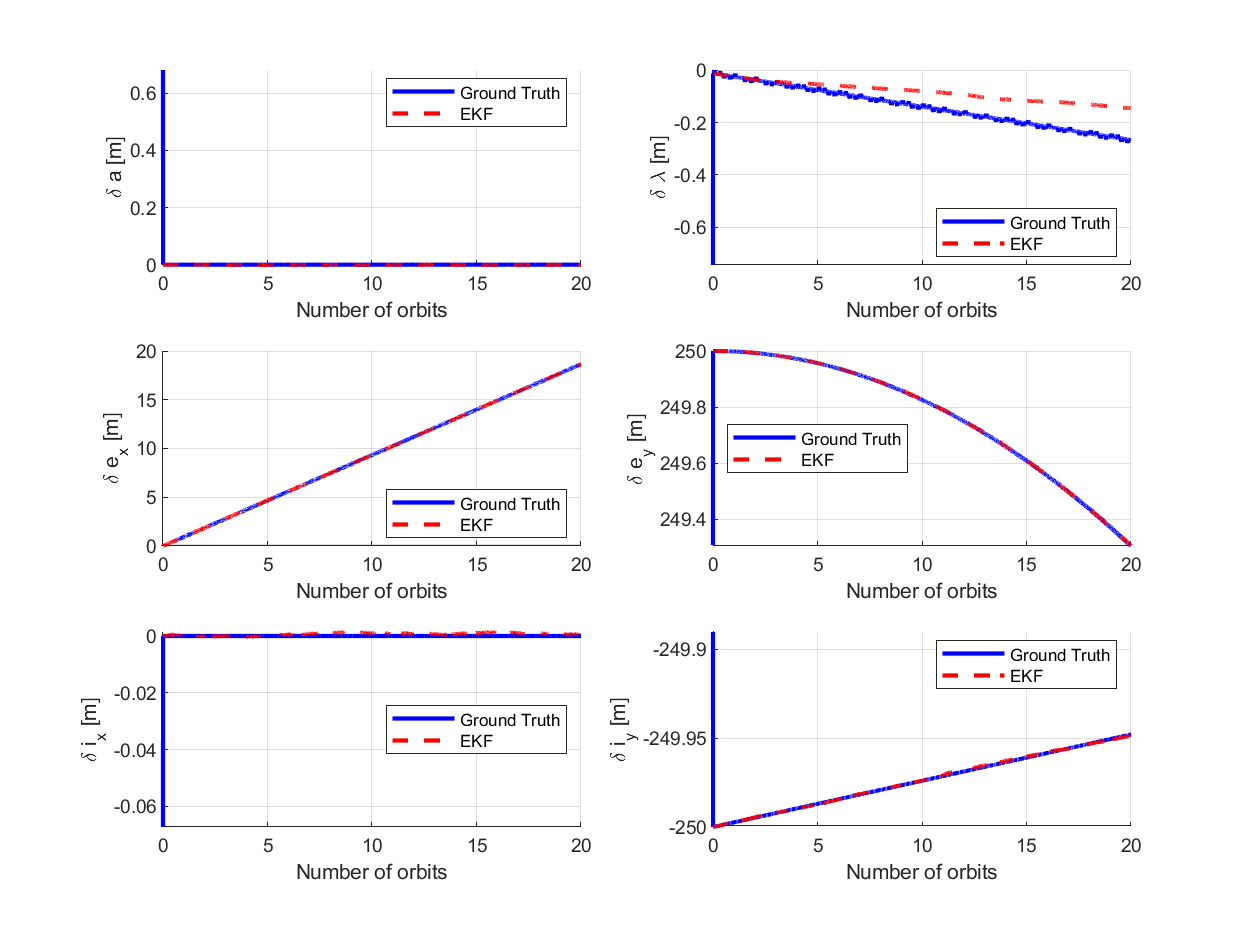
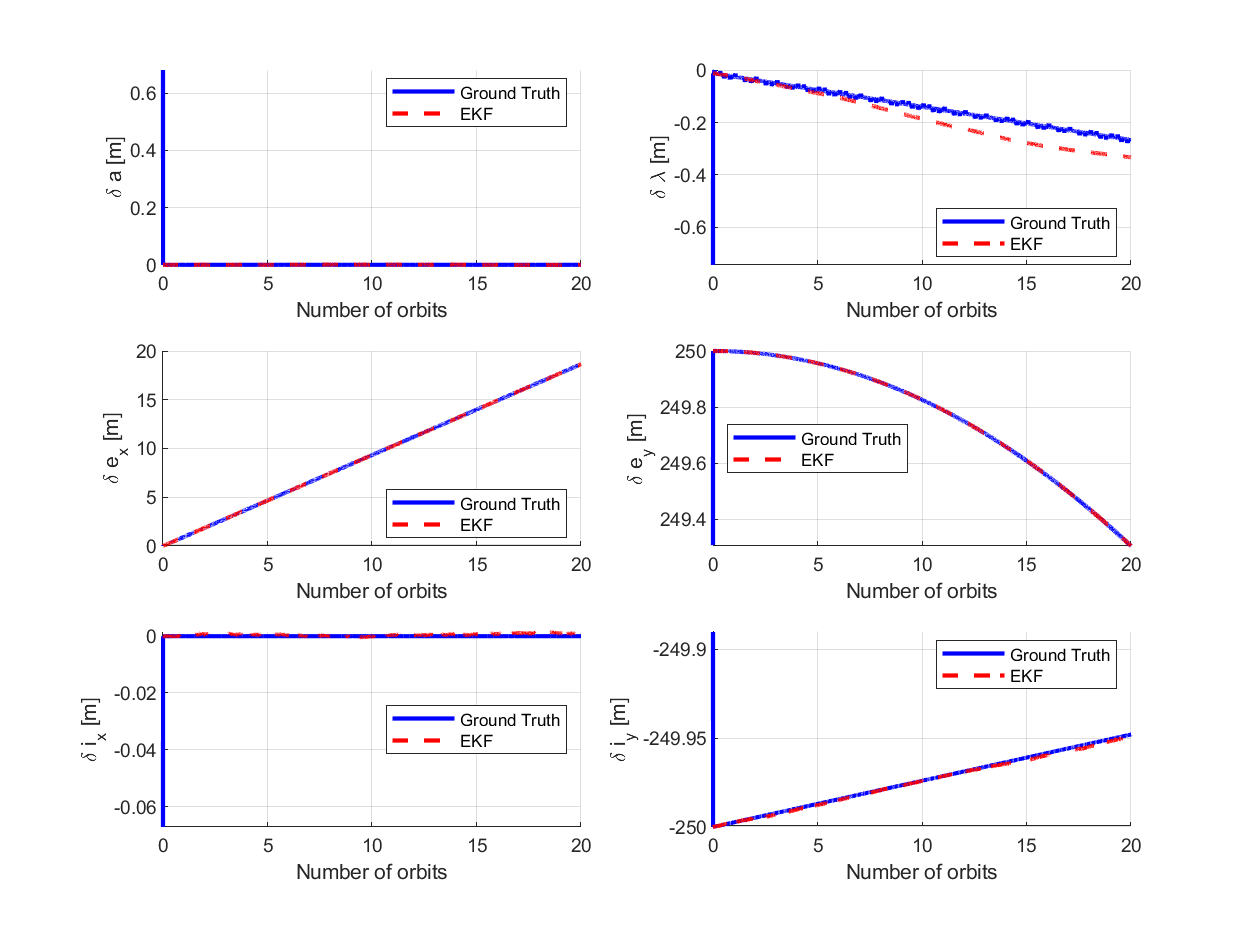
we now have SV2

diff --git a/sim/EKF_continuous_no_control.m b/sim/EKF_continuous_no_control.m
@@ -12,14 +12,19 @@ function EKF_continuous_no_control(SV1_OE_init, SV2_state_init, SV3_state_init, 
     state_SV3_all = zeros(length(t_series), 6);
     
     % EKF Values
-    ROE_EKF_SV3_all = zeros(length(t_series), 6);
+    x_EKF_SV2_all = zeros(length(t_series), 6);
+    P_EKF_SV2_all = zeros(length(t_series), 6, 6);
+    y_pred_EKF_SV2_all = zeros(length(t_series),6);
+    y_post_EKF_SV2_all = zeros(length(t_series),6);
+    y_actual_EKF_SV2_all = zeros(length(t_series), 6);
+
     x_EKF_SV3_all = zeros(length(t_series), 6);
     P_EKF_SV3_all = zeros(length(t_series), 6, 6);
     y_pred_EKF_SV3_all = zeros(length(t_series),6);
     y_post_EKF_SV3_all = zeros(length(t_series),6);
     y_actual_EKF_SV3_all = zeros(length(t_series), 6);
     
-    % noise_SV2_all = zeros(length(t_series), 6);
+    noise_SV2_all = zeros(length(t_series), 6);
     noise_SV3_all = zeros(length(t_series), 6);
 
     % Setting initial states
@@ -39,10 +44,17 @@ function EKF_continuous_no_control(SV1_OE_init, SV2_state_init, SV3_state_init, 
     OE2quasi_nonsing(a_init_SV1,e_init_SV1,i_init_SV1,RAAN_init_SV1,omega_init_SV1,M_init_SV1);
     SV1_OE_state = [a_qns_SV1, e_x_SV1, e_y_SV1, i_qns_SV1, RAAN_qns_SV1, u_SV1];
     
+    [d_a_init_SV2, d_lambda_init_SV2, d_e_x_init_SV2, d_e_y_init_SV2, d_i_x_init_SV2, d_i_y_init_SV2] = ...
+        ECI2ROE_array(SV1_state_init(1:3)', SV1_state_init(4:6)', SV3_state_init(1:3)', SV3_state_init(4:6)');
+    SV2_ROE_state = [d_a_init_SV2, d_lambda_init_SV2, d_e_x_init_SV2, d_e_y_init_SV2, d_i_x_init_SV2, d_i_y_init_SV2]/a_chief; % unscaling by a_chief
+    
+    [a_qns_SV2, e_x_SV2, e_y_SV2, i_qns_SV2, RAAN_qns_SV2, u_SV2] = ...
+        ROE2quasi_nonsing(a_qns_SV1, e_x_SV1, e_y_SV1, i_qns_SV1, RAAN_qns_SV1, u_SV1,d_a_init_SV2, d_lambda_init_SV2, d_e_x_init_SV2, d_e_y_init_SV2, d_i_x_init_SV2, d_i_y_init_SV2);
+    SV2_OE_state = [a_qns_SV2, e_x_SV2, e_y_SV2, i_qns_SV2, RAAN_qns_SV2, u_SV2];
+
     [d_a_init_SV3, d_lambda_init_SV3, d_e_x_init_SV3, d_e_y_init_SV3, d_i_x_init_SV3, d_i_y_init_SV3] = ...
         ECI2ROE_array(SV1_state_init(1:3)', SV1_state_init(4:6)', SV3_state_init(1:3)', SV3_state_init(4:6)');
     SV3_ROE_state = [d_a_init_SV3, d_lambda_init_SV3, d_e_x_init_SV3, d_e_y_init_SV3, d_i_x_init_SV3, d_i_y_init_SV3]/a_chief; % unscaling by a_chief
-    ROE_EKF_SV3_all(1, :) = SV3_ROE_state*a_chief; % storing scaled ROEs
     
     [a_qns_SV3, e_x_SV3, e_y_SV3, i_qns_SV3, RAAN_qns_SV3, u_SV3] = ...
         ROE2quasi_nonsing(a_qns_SV1, e_x_SV1, e_y_SV1, i_qns_SV1, RAAN_qns_SV1, u_SV1,d_a_init_SV3, d_lambda_init_SV3, d_e_x_init_SV3, d_e_y_init_SV3, d_i_x_init_SV3, d_i_y_init_SV3);
@@ -53,9 +65,13 @@ function EKF_continuous_no_control(SV1_OE_init, SV2_state_init, SV3_state_init, 
     estimate_sigma = 0.1*eye(6);
     %estimate_sigma(2,2) = 1e2; 
     estimate_noise = sqrtm(estimate_sigma)*randn(6,1);
-    x_EKF_SV3_all(1,:) = ROE_EKF_SV3_all(1, :); % + estimate_noise';
+    x_EKF_SV3_all(1,:) = SV3_ROE_state*a_chief; % + estimate_noise';
     P_EKF_SV3_all(1,:,:) = estimate_sigma;
+    x_EKF_SV2_all(1,:) = SV2_ROE_state*a_chief; % + estimate_noise';
+    P_EKF_SV2_all(1,:,:) = estimate_sigma;
 
+    x_update_EKF_SV2 = x_EKF_SV2_all(1,:)';
+    P_update_EKF_SV2 = squeeze(P_EKF_SV2_all(1,:,:));
     x_update_EKF_SV3 = x_EKF_SV3_all(1,:)';
     P_update_EKF_SV3 = squeeze(P_EKF_SV3_all(1,:,:));
 
@@ -63,16 +79,25 @@ function EKF_continuous_no_control(SV1_OE_init, SV2_state_init, SV3_state_init, 
     RTN_sigma = 0.01 * eye(3); % 1 m noise in each direction .000001
     ECI_sigma = 1000 * eye(3); % 100 m noise in each direction .001 or 1
 
+    [rho2, ~] = ECI2RTN_rel(SV1_state(1:3)', SV1_state(4:6)', SV2_state(1:3)', SV2_state(4:6)');
+    SV2_RTN_pos = rho2';
+    SV2_ECI_pos = SV2_state(1:3);
+
     [rho3, ~] = ECI2RTN_rel(SV1_state(1:3)', SV1_state(4:6)', SV3_state(1:3)', SV3_state(4:6)');
     SV3_RTN_pos = rho3';
     SV3_ECI_pos = SV3_state(1:3);
     
-    RTN_noise = sqrtm(RTN_sigma)*randn(3,1);
-    ECI_noise = sqrtm(ECI_sigma)*randn(3,1);
+    RTN_noise_SV2 = sqrtm(RTN_sigma)*randn(3,1);
+    ECI_noise_SV2 = sqrtm(ECI_sigma)*randn(3,1);
+    RTN_noise_SV3 = sqrtm(RTN_sigma)*randn(3,1);
+    ECI_noise_SV3 = sqrtm(ECI_sigma)*randn(3,1);
 
-    y_actual_EKF_SV3_all(1,1:3) = SV3_RTN_pos + RTN_noise;
-    y_actual_EKF_SV3_all(1,4:6) = SV3_ECI_pos + ECI_noise;
+    y_actual_EKF_SV2_all(1,1:3) = SV2_RTN_pos + RTN_noise_SV2;
+    y_actual_EKF_SV2_all(1,4:6) = SV2_ECI_pos + ECI_noise_SV2;
+    y_actual_EKF_SV3_all(1,1:3) = SV3_RTN_pos + RTN_noise_SV3;
+    y_actual_EKF_SV3_all(1,4:6) = SV3_ECI_pos + ECI_noise_SV3;
 
+    y_pred_EKF_SV2_all(1,:) = y_actual_EKF_SV2_all(1,:);
     y_pred_EKF_SV3_all(1,:) = y_actual_EKF_SV3_all(1,:);
 
     % Process and measurement noise covariances
@@ -88,12 +113,14 @@ function EKF_continuous_no_control(SV1_OE_init, SV2_state_init, SV3_state_init, 
     for i=2:n_steps
         t = full_times(i-1);
 
-        % Funky propagation fixes
+        % Use GVE propagated for ground truth ECI positions
         SV1_OE_state_inter = SV1_OE_state + (dt*secular_J2(t, SV1_OE_state))'; % propagate chief qns OE using GVE
         SV1_OE_state = wrap_QNSOE(SV1_OE_state_inter); % wraps u to be within 0-360
+        SV2_OE_state_inter = SV2_OE_state + (dt*secular_J2(t, SV2_OE_state))'; % propagate SV2 qns OE using GVE (take out later)
+        SV2_OE_state = wrap_QNSOE(SV2_OE_state_inter);
         SV3_OE_state_inter = SV3_OE_state + (dt*secular_J2(t, SV3_OE_state))'; % propagate SV3 qns OE using GVE (take out later)
         SV3_OE_state = wrap_QNSOE(SV3_OE_state_inter);
-
+        
         a_o = SV1_OE_state(1);
         e_x_o = SV1_OE_state(2);
         e_y_o = SV1_OE_state(3);
@@ -101,23 +128,42 @@ function EKF_continuous_no_control(SV1_OE_init, SV2_state_init, SV3_state_init, 
         RAAN_o = SV1_OE_state(5);
         u_o = SV1_OE_state(6);
 
-        a_t = SV3_OE_state(1);
-        e_x_t = SV3_OE_state(2);
-        e_y_t = SV3_OE_state(3);
-        i_t = SV3_OE_state(4);
-        RAAN_t = SV3_OE_state(5);
-        u_t = SV3_OE_state(6);
+        a_2 = SV2_OE_state(1);
+        e_x_2 = SV2_OE_state(2);
+        e_y_2 = SV2_OE_state(3);
+        i_2 = SV2_OE_state(4);
+        RAAN_2 = SV2_OE_state(5);
+        u_2 = SV2_OE_state(6);
 
-        % Use GVE propagated for ground truth ECI positions
+        a_3 = SV3_OE_state(1);
+        e_x_3 = SV3_OE_state(2);
+        e_y_3 = SV3_OE_state(3);
+        i_3 = SV3_OE_state(4);
+        RAAN_3 = SV3_OE_state(5);
+        u_3 = SV3_OE_state(6);
+
         [a_o,e_o,i_o,RAAN_o,w_o,nu_o, ~] = quasi_nonsing2OE(a_o, e_x_o, e_y_o, i_o, RAAN_o, u_o); 
         [r_ECI_SV1,v_ECI_SV1] = OE2ECI(a_o,e_o,i_o,RAAN_o,w_o,nu_o);
-        [a_t,e_t,i_t,RAAN_t,w_t,nu_t, ~] = quasi_nonsing2OE(a_t, e_x_t, e_y_t, i_t, RAAN_t, u_t); 
-        [r_ECI_SV3,v_ECI_SV3] = OE2ECI(a_t,e_t,i_t,RAAN_t,w_t,nu_t);
+        [a_2,e_2,i_2,RAAN_2,w_2,nu_2, ~] = quasi_nonsing2OE(a_2, e_x_2, e_y_2, i_2, RAAN_2, u_2); 
+        [r_ECI_SV2,v_ECI_SV2] = OE2ECI(a_2,e_2,i_2,RAAN_2,w_2,nu_2);
+        [a_3,e_3,i_3,RAAN_3,w_3,nu_3, ~] = quasi_nonsing2OE(a_3, e_x_3, e_y_3, i_3, RAAN_3, u_3); 
+        [r_ECI_SV3,v_ECI_SV3] = OE2ECI(a_3,e_3,i_3,RAAN_3,w_3,nu_3);
 
         SV3_state = [r_ECI_SV3', v_ECI_SV3']';
+        SV2_state = [r_ECI_SV2', v_ECI_SV2']';
         SV1_state = [r_ECI_SV1', v_ECI_SV1']';
 
         % EKF Generate Measurements
+        [rho2, ~] = ECI2RTN_rel(r_ECI_SV1', v_ECI_SV1', r_ECI_SV2', v_ECI_SV2');
+        SV2_RTN_pos = rho2';
+        SV2_ECI_pos = SV2_state(1:3);
+        RTN_noise = sqrtm(RTN_sigma)*randn(3,1); % use sigma value defined above
+        ECI_noise = sqrtm(ECI_sigma)*randn(3,1);
+        SV2_RTN_measurement = SV2_RTN_pos + RTN_noise;
+        SV2_ECI_measurement = SV2_ECI_pos + ECI_noise;
+        noise_vector_SV2 = [RTN_noise;ECI_noise];
+        y_actual_EKF_SV2 = [SV2_RTN_measurement;SV2_ECI_measurement];
+
         [rho3, ~] = ECI2RTN_rel(r_ECI_SV1', v_ECI_SV1', r_ECI_SV3', v_ECI_SV3');
         SV3_RTN_pos = rho3';
         SV3_ECI_pos = SV3_state(1:3);
@@ -128,32 +174,25 @@ function EKF_continuous_no_control(SV1_OE_init, SV2_state_init, SV3_state_init, 
         noise_vector_SV3 = [RTN_noise;ECI_noise];
         y_actual_EKF_SV3 = [SV3_RTN_measurement;SV3_ECI_measurement];
         
-        % EKF Mean Prediction (Chief OE, and ROE Euler Integration
-        SV1_OE_sing = [a_o,e_o,i_o,RAAN_o,w_o,nu_o];
-        [STM_big,~] = roe_stm_j2(dt, x_update_EKF_SV3', SV1_OE_sing);
-        STM_curr = squeeze(STM_big);
-        x_pred_EKF_SV3 = STM_curr*x_update_EKF_SV3;
+        % Run KF for SV2
+        [x_update_EKF_SV2, P_update_EKF_SV2, y_pred_EKF_SV2, y_post_EKF_SV2] = ekf_roes(x_update_EKF_SV2, y_actual_EKF_SV2, P_update_EKF_SV2, SV1_state, SV1_OE_state, Q, R, dt);
 
-        % EKF Covariance Prediction
-        P_pred_EKF_SV3 = STM_curr * P_update_EKF_SV3 * STM_curr' + Q;
-
-        % EKF Predict Measurements
-        y_pred_EKF_SV3 = measurement_model_SV3(x_pred_EKF_SV3,SV1_OE_state);
-
-        % EKF Update
-        H = measurement_sensitivity_matrix_SV3(SV1_state(1:3)',SV1_state(4:6)',SV1_OE_state);
-        K = (P_pred_EKF_SV3*(H'))/(H*P_pred_EKF_SV3*H' + R);
-
-        x_update_EKF_SV3 = x_pred_EKF_SV3-(K*(y_actual_EKF_SV3-y_pred_EKF_SV3));
-        P_update_EKF_SV3 = (eye(6)-K*H)*P_pred_EKF_SV3*(eye(6)-K*H)' + K*R*K';
-        y_post_EKF_SV3 = measurement_model_SV3(x_update_EKF_SV3,SV1_OE_state);
-
+        % Run KF for SV3
+        [x_update_EKF_SV3, P_update_EKF_SV3, y_pred_EKF_SV3, y_post_EKF_SV3] = ekf_roes(x_update_EKF_SV3, y_actual_EKF_SV3, P_update_EKF_SV3, SV1_state, SV1_OE_state, Q, R, dt);
+        
         % Save states to buffer
         state_SV3_all(i, :) = SV3_state';
         state_SV2_all(i, :) = SV2_state';
         state_SV1_all(i, :) = SV1_state';
 
         % EKF buffer
+        y_actual_EKF_SV2_all(i,:) = y_actual_EKF_SV2;
+        y_pred_EKF_SV2_all(i, :) = y_pred_EKF_SV2;
+        y_post_EKF_SV2_all(i, :) = y_post_EKF_SV2;
+        x_EKF_SV2_all(i, :) = x_update_EKF_SV2;
+        P_EKF_SV2_all(i,:,:) = P_update_EKF_SV2;
+        noise_SV2_all(i, :) = noise_vector_SV2;
+
         y_actual_EKF_SV3_all(i,:) = y_actual_EKF_SV3;
         y_pred_EKF_SV3_all(i, :) = y_pred_EKF_SV3;
         y_post_EKF_SV3_all(i, :) = y_post_EKF_SV3;
@@ -198,8 +237,16 @@ function EKF_continuous_no_control(SV1_OE_init, SV2_state_init, SV3_state_init, 
     ROE_SV3_true = [d_a_SV3, d_lambda_SV3, d_e_x_SV3, d_e_y_SV3, d_i_x_SV3, d_i_y_SV3];
     ROE_SV2_true = [d_a_SV2, d_lambda_SV2, d_e_x_SV2, d_e_y_SV2, d_i_x_SV2, d_i_y_SV2];
 
+    pre_fit_residual_SV2 = y_actual_EKF_SV2_all - y_pred_EKF_SV2_all;
+    post_fit_residual_SV2 = y_actual_EKF_SV2_all - y_post_EKF_SV2_all;
+
     pre_fit_residual_SV3 = y_actual_EKF_SV3_all - y_pred_EKF_SV3_all;
     post_fit_residual_SV3 = y_actual_EKF_SV3_all - y_post_EKF_SV3_all;
+
+    plot_ROE_comparison_with_cov(full_times, t_orbit, ROE_SV2_true, x_EKF_SV2_all, P_EKF_SV2_all, 'Ground Truth', 'EKF',  ...
+        '','figures/PS8/ROE_planes_SV2_comparison.png', '', 'figures/PS8/ROE_over_time_SV2_comparison.png');
+    
+    plot_EKF_residuals(full_times, t_orbit, pre_fit_residual_SV2, post_fit_residual_SV2, noise_SV2_all, 'figures/PS8/residuals_SV2.png');
 
     plot_ROE_comparison_with_cov(full_times, t_orbit, ROE_SV3_true, x_EKF_SV3_all, P_EKF_SV3_all, 'Ground Truth', 'EKF',  ...
         '','figures/PS8/ROE_planes_SV3_comparison.png', '', 'figures/PS8/ROE_over_time_SV3_comparison.png');

diff --git a/gnc/ekf_roes.m b/gnc/ekf_roes.m
@@ -1,0 +1,31 @@
+function [x_update, P_update, y_pred, y_post] = ekf_roes(x_prior, y_meas, P_prior, SV1_state, SV1_OE_state, Q, R, dt)
+
+    a_o = SV1_OE_state(1);
+    e_x_o = SV1_OE_state(2);
+    e_y_o = SV1_OE_state(3);
+    i_o = SV1_OE_state(4);
+    RAAN_o = SV1_OE_state(5);
+    u_o = SV1_OE_state(6);
+
+    [a_o,e_o,i_o,RAAN_o,w_o,nu_o, ~] = quasi_nonsing2OE(a_o, e_x_o, e_y_o, i_o, RAAN_o, u_o); 
+    
+    SV1_OE_sing = [a_o,e_o,i_o,RAAN_o,w_o,nu_o];
+
+    [STM_big,~] = roe_stm_j2(dt, x_prior', SV1_OE_sing);
+    STM_curr = squeeze(STM_big);
+    x_bar = STM_curr*x_prior;
+
+    % EKF Covariance Prediction
+    P_bar = STM_curr * P_prior * STM_curr' + Q;
+
+    % EKF Predict Measurements
+    y_pred = measurement_model_SV3(x_bar,SV1_OE_state);
+
+    % EKF Update
+    H = measurement_sensitivity_matrix_SV3(SV1_state(1:3)',SV1_state(4:6)',SV1_OE_state);
+    K = (P_bar*(H'))/(H*P_bar*H' + R);
+
+    x_update = x_bar-(K*(y_meas-y_pred));
+    P_update = (eye(6)-K*H)*P_bar*(eye(6)-K*H)' + K*R*K';
+    y_post = measurement_model_SV3(x_update,SV1_OE_state);
+end
